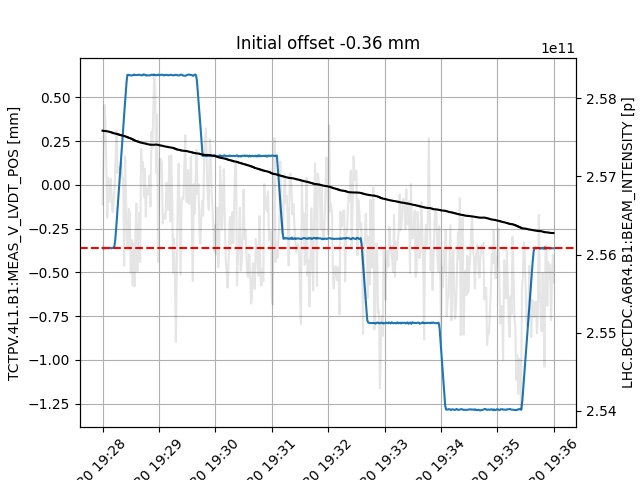
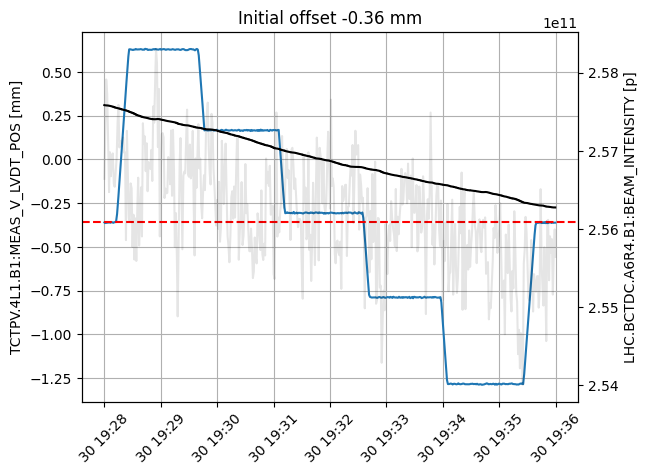
Status

Changed region(s): [[0.0, 0.0, 1.0, 1.0], [0.4062, 0.7368, 0.4375, 0.7663], [0.3125, 0.7368, 0.3438, 0.7663]]

diff --git a/find_alignment.py b/find_alignment.py
@@ -104,7 +104,7 @@ plt.twinx()
 plt.plot(df[f'LHC.BCTDC.A6R4.{my_beam}:BEAM_INTENSITY'].between_time(t0_filtered,t1_filtered), label=f'LHC.BCTDC.A6R4.{my_beam}:BEAM_INTENSITY', color='k',alpha=0.1)
 plt.ylabel(f'LHC.BCTDC.A6R4.{my_beam}:BEAM_INTENSITY [p]')
 plt.plot(df['DCT_B1_FIT'].between_time(t0_filtered,t1_filtered), label=f'LHC.BCTDC.A6R4.{my_beam}:BEAM_INTENSITY', color='k')
-plt.savefig(f'plots/scan_TCTP{my_plane}.4{my_string}.png')
+plt.savefig(f'plots/scan_TCTP{my_plane}.4{my_string}.png', bbox_inches='tight')
 # %%
 plt.plot(df[f'TCTP{my_plane}.4{my_string}:MEAS_V_LVDT_POS'].between_time(t0_filtered,t1_filtered),
           df[f'LHC.BPTU{my_plane}.A4{my_string}:CALIBRAWVALV1'].between_time(t0_filtered,t1_filtered)/
@@ -124,7 +124,7 @@ plt.axvline(x=initial_offset, color='r', linestyle='--')
 plt.axvline(x=offset, color='g', linestyle='--')
 
 plt.title(f'Align from {initial_offset:3.2f} to {offset:3.2f} mm')
-plt.savefig(f'plots/result_TCTP{my_plane}.4{my_string}.png')
+plt.savefig(f'plots/result_TCTP{my_plane}.4{my_string}.png', bbox_inches='tight')
 
 # %%
 t0_filtered="19:37"
@@ -155,7 +155,7 @@ plt.twinx()
 plt.plot(df[f'LHC.BCTDC.A6R4.{my_beam}:BEAM_INTENSITY'].between_time(t0_filtered,t1_filtered), label=f'LHC.BCTDC.A6R4.{my_beam}:BEAM_INTENSITY', color='k',alpha=0.1)
 plt.ylabel(f'LHC.BCTDC.A6R4.{my_beam}:BEAM_INTENSITY [p]')
 plt.plot(df['DCT_B1_FIT'].between_time(t0_filtered,t1_filtered), label=f'LHC.BCTDC.A6R4.{my_beam}:BEAM_INTENSITY', color='k')
-plt.savefig(f'plots/scan_TCTP{my_plane}.4{my_string}.png')
+plt.savefig(f'plots/scan_TCTP{my_plane}.4{my_string}.png', bbox_inches='tight')
 # %%
 plt.plot(df[f'TCTP{my_plane}.4{my_string}:MEAS_V_LVDT_POS'].between_time(t0_filtered,t1_filtered),
           df[f'LHC.BPTU{my_plane}.A4{my_string}:CALIBRAWVALV1'].between_time(t0_filtered,t1_filtered)/
@@ -175,7 +175,7 @@ plt.axvline(x=initial_offset, color='r', linestyle='--')
 plt.axvline(x=offset, color='g', linestyle='--')
 
 plt.title(f'Align from {initial_offset:3.2f} to {offset:3.2f} mm')
-plt.savefig(f'plots/result_TCTP{my_plane}.4{my_string}.png')
+plt.savefig(f'plots/result_TCTP{my_plane}.4{my_string}.png', bbox_inches='tight')
 
 # %%
 t0_filtered="19:08"
@@ -206,7 +206,7 @@ plt.twinx()
 plt.plot(df[f'LHC.BCTDC.A6R4.{my_beam}:BEAM_INTENSITY'].between_time(t0_filtered,t1_filtered), label=f'LHC.BCTDC.A6R4.{my_beam}:BEAM_INTENSITY', color='k',alpha=0.1)
 plt.ylabel(f'LHC.BCTDC.A6R4.{my_beam}:BEAM_INTENSITY [p]')
 plt.plot(df['DCT_B1_FIT'].between_time(t0_filtered,t1_filtered), label=f'LHC.BCTDC.A6R4.{my_beam}:BEAM_INTENSITY', color='k')
-plt.savefig(f'plots/scan_TCTP{my_plane}.4{my_string}.png')
+plt.savefig(f'plots/scan_TCTP{my_plane}.4{my_string}.png', bbox_inches='tight')
 # %%
 plt.plot(df[f'TCTP{my_plane}.4{my_string}:MEAS_V_LVDT_POS'].between_time(t0_filtered,t1_filtered),
           df[f'LHC.BPTU{my_plane}.A4{my_string}:CALIBRAWVALV1'].between_time(t0_filtered,t1_filtered)/
@@ -226,7 +226,7 @@ plt.axvline(x=initial_offset, color='r', linestyle='--')
 plt.axvline(x=offset, color='g', linestyle='--')
 
 plt.title(f'Align from {initial_offset:3.2f} to {offset:3.2f} mm')
-plt.savefig(f'plots/result_TCTP{my_plane}.4{my_string}.png')
+plt.savefig(f'plots/result_TCTP{my_plane}.4{my_string}.png', bbox_inches='tight')
 # %%
 t0_filtered="19:18"
 t1_filtered="19:27"
@@ -256,7 +256,7 @@ plt.twinx()
 plt.plot(df[f'LHC.BCTDC.A6R4.{my_beam}:BEAM_INTENSITY'].between_time(t0_filtered,t1_filtered), label=f'LHC.BCTDC.A6R4.{my_beam}:BEAM_INTENSITY', color='k',alpha=0.1)
 plt.ylabel(f'LHC.BCTDC.A6R4.{my_beam}:BEAM_INTENSITY [p]')
 plt.plot(df['DCT_B1_FIT'].between_time(t0_filtered,t1_filtered), label=f'LHC.BCTDC.A6R4.{my_beam}:BEAM_INTENSITY', color='k')
-plt.savefig(f'plots/scan_TCTP{my_plane}.4{my_string}.png')
+plt.savefig(f'plots/scan_TCTP{my_plane}.4{my_string}.png', bbox_inches='tight')
 # %%
 plt.plot(df[f'TCTP{my_plane}.4{my_string}:MEAS_V_LVDT_POS'].between_time(t0_filtered,t1_filtered),
           df[f'LHC.BPTU{my_plane}.A4{my_string}:CALIBRAWVALV1'].between_time(t0_filtered,t1_filtered)/
@@ -276,5 +276,5 @@ plt.axvline(x=initial_offset, color='r', linestyle='--')
 plt.axvline(x=offset, color='g', linestyle='--')
 
 plt.title(f'Align from {initial_offset:3.2f} to {offset:3.2f} mm')
-plt.savefig(f'plots/result_TCTP{my_plane}.4{my_string}.png')
+plt.savefig(f'plots/result_TCTP{my_plane}.4{my_string}.png', bbox_inches='tight')
 # %%
